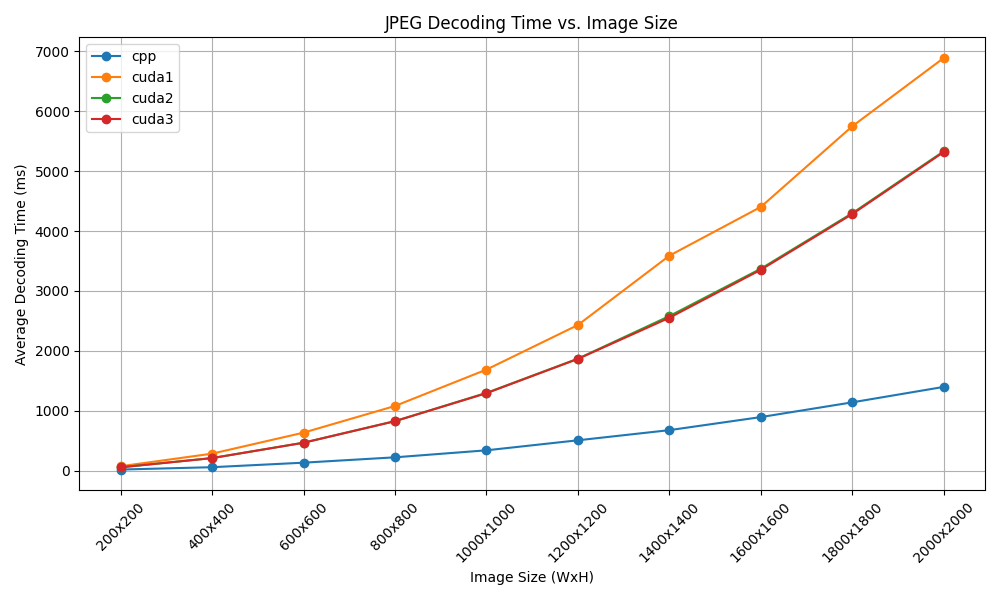
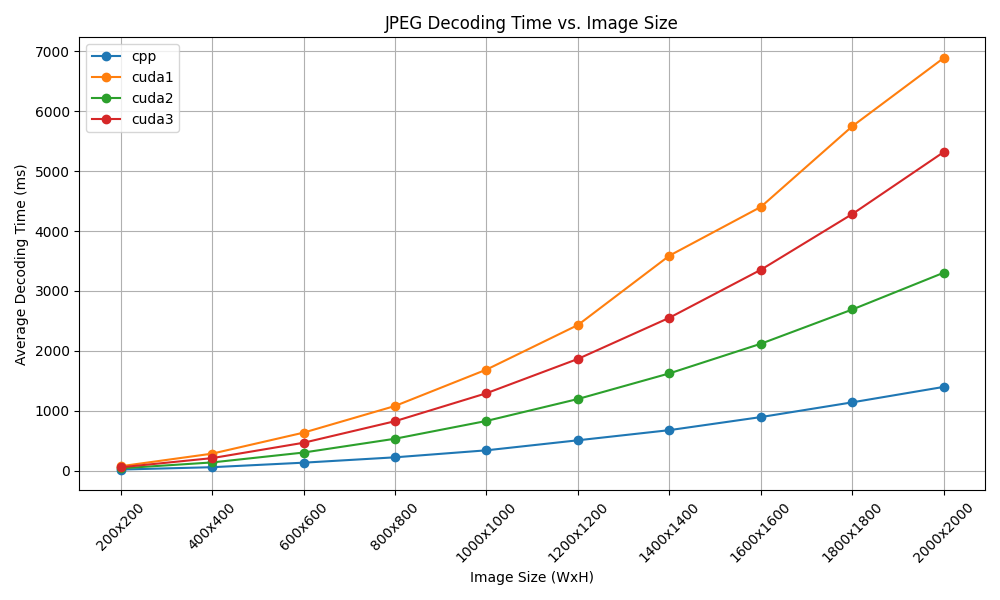
Changed the zigzag allocations.

diff --git a/cuda2-implementation/src/idct.h b/cuda2-implementation/src/idct.h
@@ -12,11 +12,12 @@ const int IDCT_PRECISION = 8;
 class IDCT {
     private:
         int* zigzag;
+        int* initialZigzag;
         int blockSize;
         int gridSize;
 
     public:
-        IDCT(int* base, double* idctTable);
+        IDCT(int* base, double* idctTable, int* zigzag, int* initialZigzag);
         double* idctTable;
         int* base;
         

diff --git a/cuda2-implementation/src/parser.h b/cuda2-implementation/src/parser.h
@@ -60,6 +60,9 @@ class JPEGParser {
         int width;
 
         double* idctTable;
+        int* initialZigzag;
+        int* zigzag;
+
         // Methods for extracting and building blocks.
         void buildMCU(int* arr, Stream* imageStream, int hf, int quant, int& oldcoeff, int validWidth, int validHeight);
     public:
